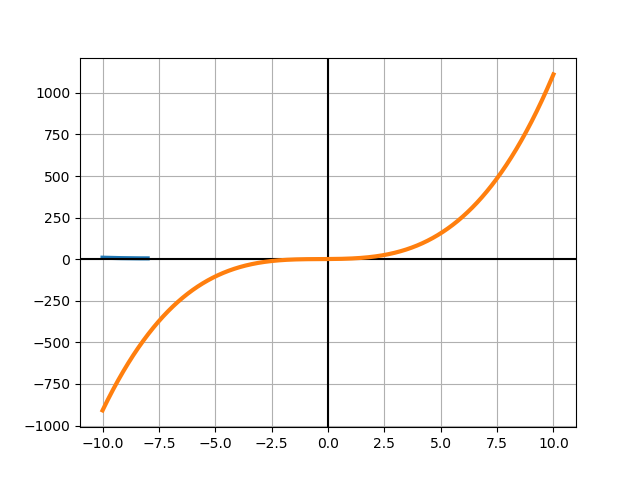
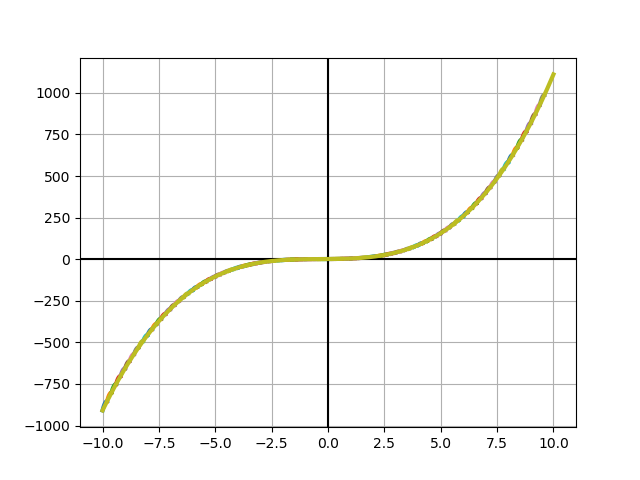
simpsons rule implemented

diff --git a/src/products/riemann.py b/src/products/riemann.py
@@ -4,6 +4,7 @@
 import numpy as np
 import matplotlib.pyplot as plt
 import math
+import matplotlib as mpl
 
 #from matplotlib.pyplot import figure
 #import mpld3
@@ -31,9 +32,12 @@ def calculateSum(function_type, a, b, c, d, xmin, xmax, width_rect, rct_amnt, wd
 
    SUM_TYPE = int(sum_type)
 
-   xList= np.arange(xMin, xMax, INCREASE) 
-   yList = createYList(xList, FUNCTION, A, B, C, D) 
-
+   if SUM_TYPE < 4:
+      xList= np.arange(xMin, xMax, INCREASE) 
+      yList = createYList(xList, FUNCTION, A, B, C, D) 
+   else:
+      xList= np.arange(xMin, xMax+1, INCREASE) 
+      yList = createYList(xList, FUNCTION, A, B, C, D) 
 
    if SUM_TYPE == 3: 
       sum = riemannTrap(yList, DELTA_X, xMin)
@@ -41,7 +45,8 @@ def calculateSum(function_type, a, b, c, d, xmin, xmax, width_rect, rct_amnt, wd
       sum = riemann(yList, DELTA_X, xMin, SUM_TYPE) 
    else:
       sum = 0
-      simp(yList, DELTA_X, xMin)
+      
+      simp(yList, DELTA_X, xMin, xMax)
           
    plt.axhline(y = 0, color='k') # x axis
    plt.axvline(x = 0, color='k') # y axis 
@@ -55,8 +60,9 @@ def calculateSum(function_type, a, b, c, d, xmin, xmax, width_rect, rct_amnt, wd
    plt.plot(0, min(yList) - INCREASE)
    
    plt.grid(True)
-   plt.savefig("graph.png")
-   
+   plt.savefig("tester.png")
+   plt.show()
+
    try: 
         file = open("output.txt", mode = 'w') # opens output file
         file.write(str(sum))
@@ -88,7 +94,7 @@ def createYList(xList, type, A, B, C, D):
    elif type == 6: # natural log
       yList = A * np.log(xList) + B
    else:
-      yList = A*(xList-B)**2 + C
+      yList = A*((xList-B)**2) + C # vertex form for parabola
    
    return yList
    
@@ -190,12 +196,37 @@ def riemannTrap(yList, deltaX, xMin):
    # print("\nThe trapezoidal sum is: " + str(round(sum, 3)))
    return round(sum, 3)
 
-def simp(yList, deltaX, xMin):
+def simp(yList, deltaX, xMin, xMax):
    delta =  int(deltaX / INCREASE)  
    #f(0)=list(10000) 
    sum = 0 
    
-   riemannX = np.arange(xMin, xMin+deltaX, INCREASE) 
-   riemannY = createYList(riemannX, 7, 1, xMin+deltaX, 5, 0)
+   rectNum = int((xMax - xMin) // deltaX)
+   
+   for i in range(1, rectNum+1):
 
-   plt.plot(riemannX, riemannY, linewidth = 3)
+      simpX = np.arange(xMin+deltaX*(i-1), xMin+deltaX*i, INCREASE)  
+
+      simpY = createYList(simpX, 7, 
+      (yList[int(10000*deltaX*(i-1))]-yList[int(10000*(deltaX*i))]) / (((deltaX*(i-1))-((deltaX*i)))**2), 
+      xMin+(deltaX*i), 
+      yList[int(10000*(deltaX*i))], 0)
+      
+      plt.plot(simpX, simpY)
+   
+   for i in range(0, len(yList) // delta):      
+      riemannX = []
+      riemannY = []
+      # rectangle graphing
+      riemannX.append(i * deltaX + xMin)
+      riemannY.append(0)
+      
+      val = yList[delta * i]
+      
+      riemannX.append(i * deltaX + xMin)
+      riemannY.append(val)
+      
+      plt.plot(riemannX, riemannY)
+   
+   # adds last point
+   
